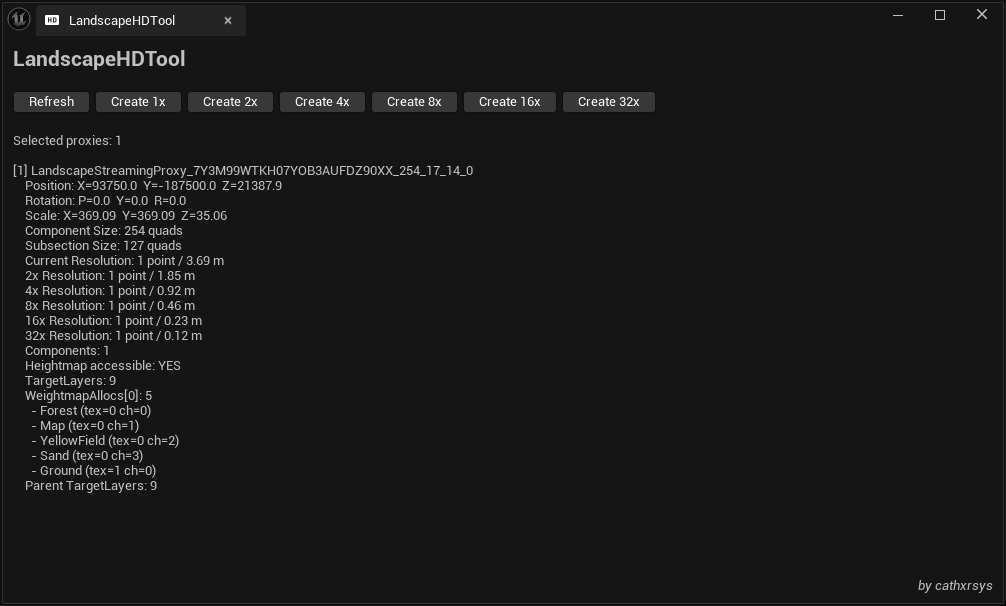
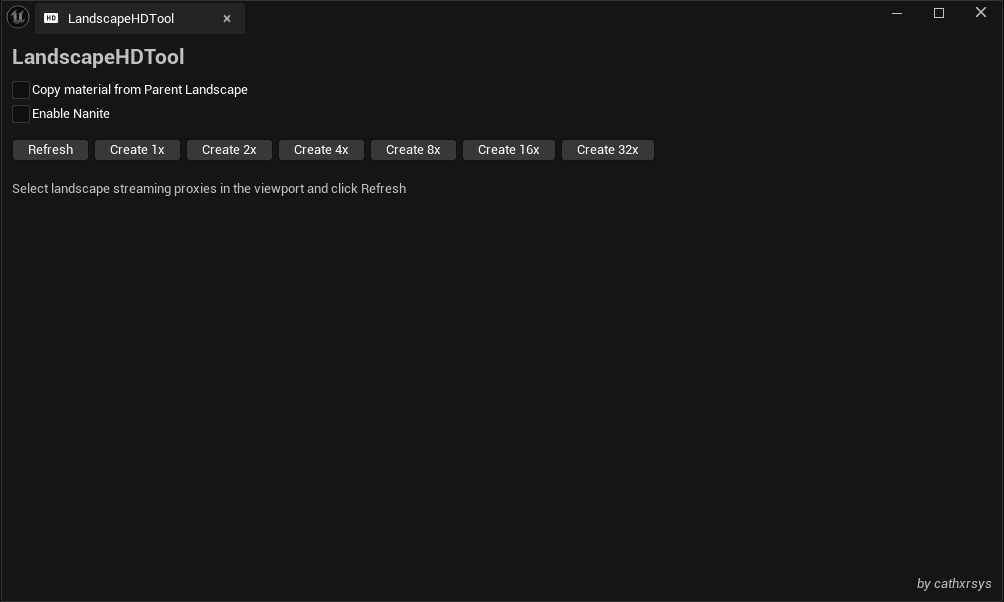
upd

Changed region(s): [[0.0, 0.0, 1.0, 1.0]]

diff --git a/Source/LandscapeHDTool/Private/LandscapeHDToolWidget.cpp b/Source/LandscapeHDTool/Private/LandscapeHDToolWidget.cpp
@@ -30,6 +30,30 @@ void SLandscapeHDToolWidget::Construct(const FArguments& InArgs)
 		]
 		+ SVerticalBox::Slot()
 		.AutoHeight()
+		.Padding(10, 2, 10, 6)
+		[
+			SNew(SCheckBox)
+			.IsChecked(this, &SLandscapeHDToolWidget::GetCopyMaterialCheckState)
+			.OnCheckStateChanged(this, &SLandscapeHDToolWidget::OnCopyMaterialCheckChanged)
+			[
+				SNew(STextBlock)
+				.Text(FText::FromString(TEXT("Copy material from Parent Landscape")))
+			]
+		]
+		+ SVerticalBox::Slot()
+		.AutoHeight()
+		.Padding(10, 0, 10, 6)
+		[
+			SNew(SCheckBox)
+			.IsChecked(this, &SLandscapeHDToolWidget::GetEnableNaniteCheckState)
+			.OnCheckStateChanged(this, &SLandscapeHDToolWidget::OnEnableNaniteCheckChanged)
+			[
+				SNew(STextBlock)
+				.Text(FText::FromString(TEXT("Enable Nanite")))
+			]
+		]
+		+ SVerticalBox::Slot()
+		.AutoHeight()
 		.Padding(10)
 		[
 			SNew(SHorizontalBox)
@@ -294,6 +318,26 @@ static void UpscaleWeightmap(const TArray<uint8>& Src, int32 SrcW, int32 SrcH,
 			Dst[Y * DstW + X] = (uint8)FMath::Clamp(FMath::RoundToInt(Val), 0, 255);
 		}
 	}
+}
+
+void SLandscapeHDToolWidget::OnCopyMaterialCheckChanged(ECheckBoxState NewState)
+{
+	bCopyMaterialFromParent = NewState;
+}
+
+ECheckBoxState SLandscapeHDToolWidget::GetCopyMaterialCheckState() const
+{
+	return bCopyMaterialFromParent;
+}
+
+void SLandscapeHDToolWidget::OnEnableNaniteCheckChanged(ECheckBoxState NewState)
+{
+	bEnableNanite = NewState;
+}
+
+ECheckBoxState SLandscapeHDToolWidget::GetEnableNaniteCheckState() const
+{
+	return bEnableNanite;
 }
 
 FReply SLandscapeHDToolWidget::OnRefreshClicked()
@@ -581,6 +625,31 @@ FReply SLandscapeHDToolWidget::OnCreateClicked(int32 ResolutionMultiplier)
 			ELandscapeImportAlphamapType::Additive,
 			TArrayView<const FLandscapeLayer>()
 		);
+
+		if (bCopyMaterialFromParent == ECheckBoxState::Checked && SourceLandscape)
+		{
+			UMaterialInterface* ParentMaterial = SourceLandscape->GetLandscapeMaterial();
+			if (ParentMaterial)
+			{
+				NewLandscape->LandscapeMaterial = ParentMaterial;
+				Result += FString::Printf(TEXT("    Material copied from parent: %s\n"), *ParentMaterial->GetName());
+			}
+			else
+			{
+				Result += TEXT("    Parent has no material set\n");
+			}
+		}
+
+		if (bEnableNanite == ECheckBoxState::Checked && SourceLandscape)
+		{
+			FProperty* NaniteProp = ALandscapeProxy::StaticClass()->FindPropertyByName(FName("bEnableNanite"));
+			if (NaniteProp)
+			{
+				bool bSourceNanite = SourceLandscape->IsNaniteEnabled();
+				NaniteProp->SetValue_InContainer(NewLandscape, &bSourceNanite);
+				Result += FString::Printf(TEXT("    Nanite: %s (copied from parent)\n"), bSourceNanite ? TEXT("enabled") : TEXT("disabled"));
+			}
+		}
 
 		CreatedCount++;
 		Result += FString::Printf(TEXT("[%d] %s - CREATED (%dx)\n"), Idx + 1, *SourceProxy->GetName(), ResolutionMultiplier);

diff --git a/Source/LandscapeHDTool/Public/LandscapeHDToolWidget.h b/Source/LandscapeHDTool/Public/LandscapeHDToolWidget.h
@@ -2,6 +2,7 @@
 
 #include "CoreMinimal.h"
 #include "Widgets/SCompoundWidget.h"
+#include "Widgets/Input/SCheckBox.h"
 
 class SLandscapeHDToolWidget : public SCompoundWidget
 {
@@ -14,6 +15,12 @@ public:
 private:
 	FReply OnRefreshClicked();
 	FReply OnCreateClicked(int32 ResolutionMultiplier);
+	void OnCopyMaterialCheckChanged(ECheckBoxState NewState);
+	ECheckBoxState GetCopyMaterialCheckState() const;
+	void OnEnableNaniteCheckChanged(ECheckBoxState NewState);
+	ECheckBoxState GetEnableNaniteCheckState() const;
 	
 	TSharedPtr<STextBlock> ResultText;
+	ECheckBoxState bCopyMaterialFromParent = ECheckBoxState::Unchecked;
+	ECheckBoxState bEnableNanite = ECheckBoxState::Unchecked;
 };
